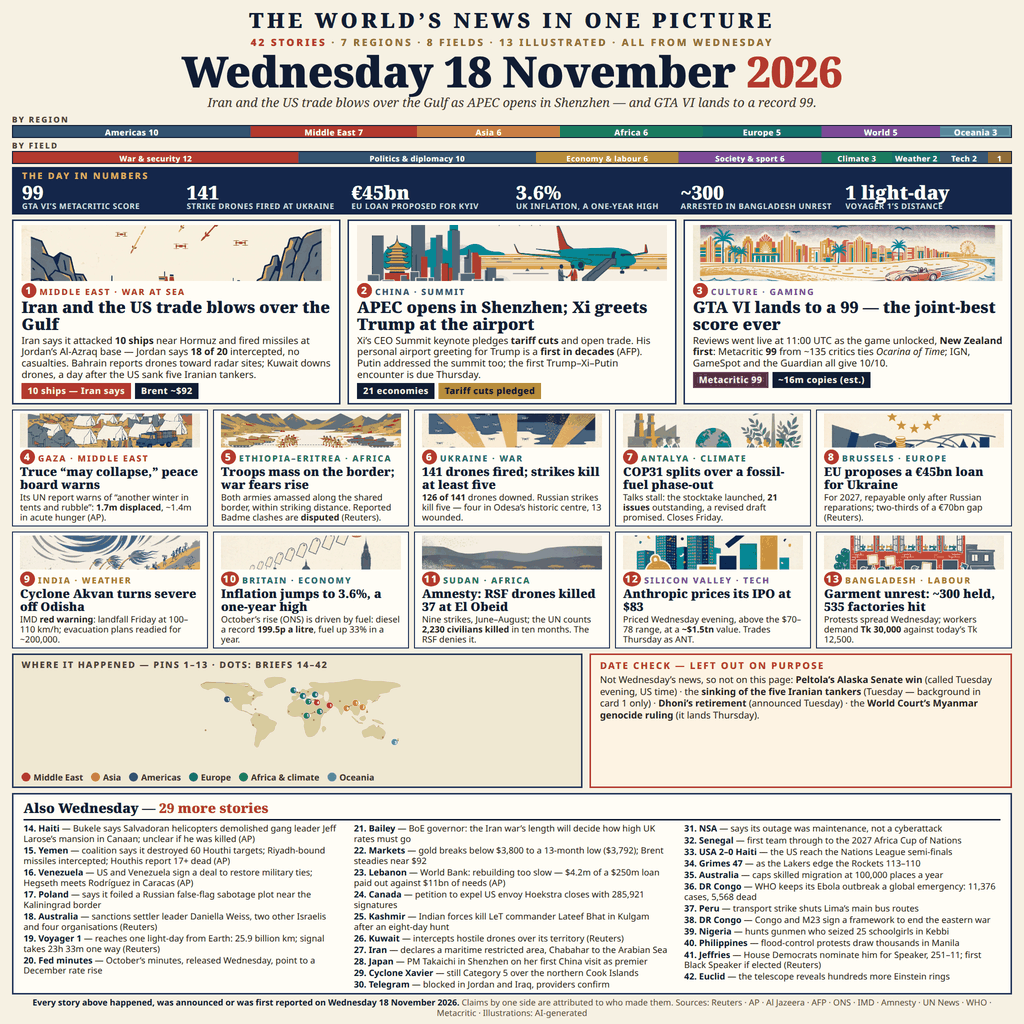
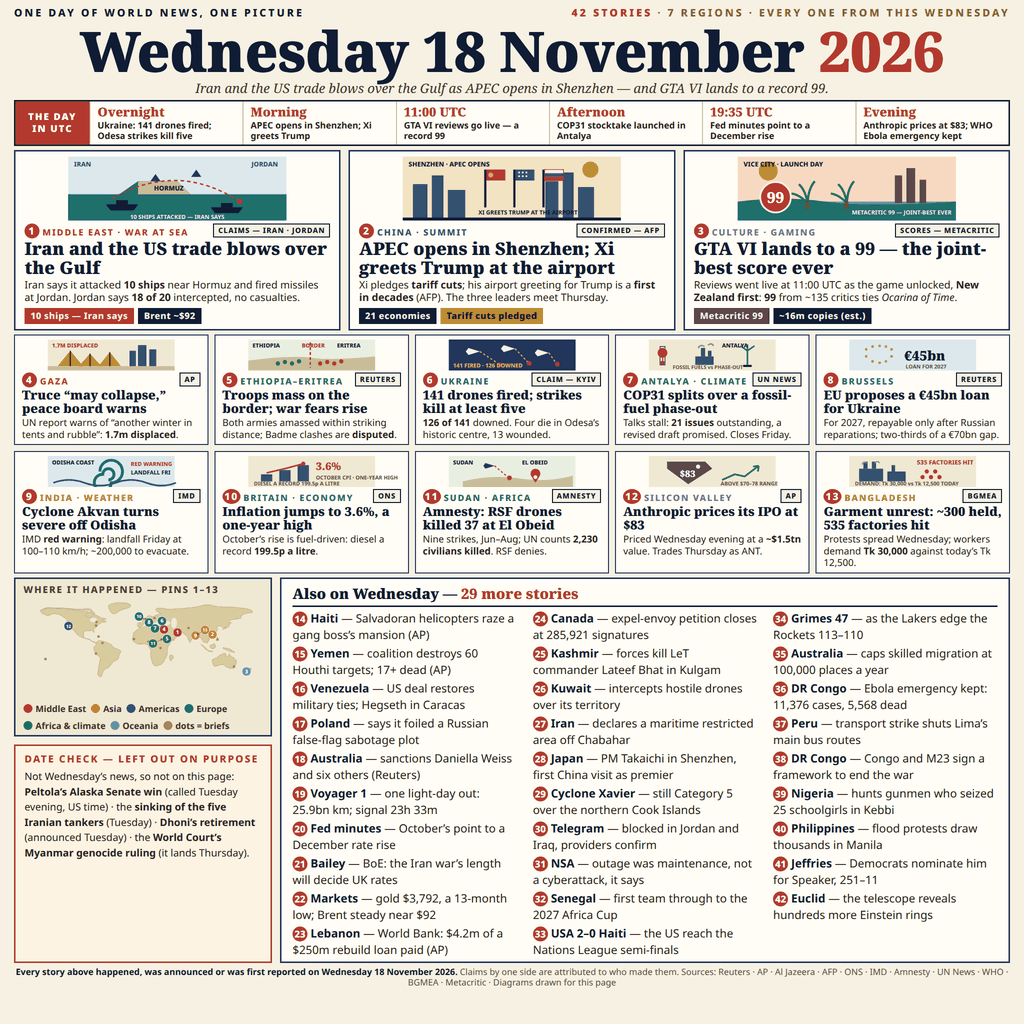
Round 2: winner-layout broadsheet (compact map, filled date-check column)

diff --git a/README.md b/README.md
@@ -4,7 +4,7 @@
 [![Rank](https://make.fun/badge/news-image-20261118/arizkis/news-image-20261118/rank.svg)](https://make.fun/bounty/news-image-20261118/leaderboard?utm_source=github&utm_medium=readme&utm_campaign=news-image-20261118)
 [![Reward](https://make.fun/badge/news-image-20261118/arizkis/news-image-20261118/reward.svg)](https://make.fun/bounty/news-image-20261118?utm_source=github&utm_medium=readme&utm_campaign=news-image-20261118)
 
-A single broadsheet covers 42 verified stories from Wednesday, 18 November 2026: 13 illustrated stories, including three leads, and 29 numbered briefs. A world map locates the illustrated stories. A date-check box and a strip of key figures round out the page.
+A single broadsheet covers 42 verified stories from Wednesday, 18 November 2026: 13 illustrated stories, including four leads, and 29 numbered briefs. A world map locates the illustrated stories. A date-check box rounds out the page, and key figures live inside the illustrated panels.
 
 ## Run with Node 22
 
